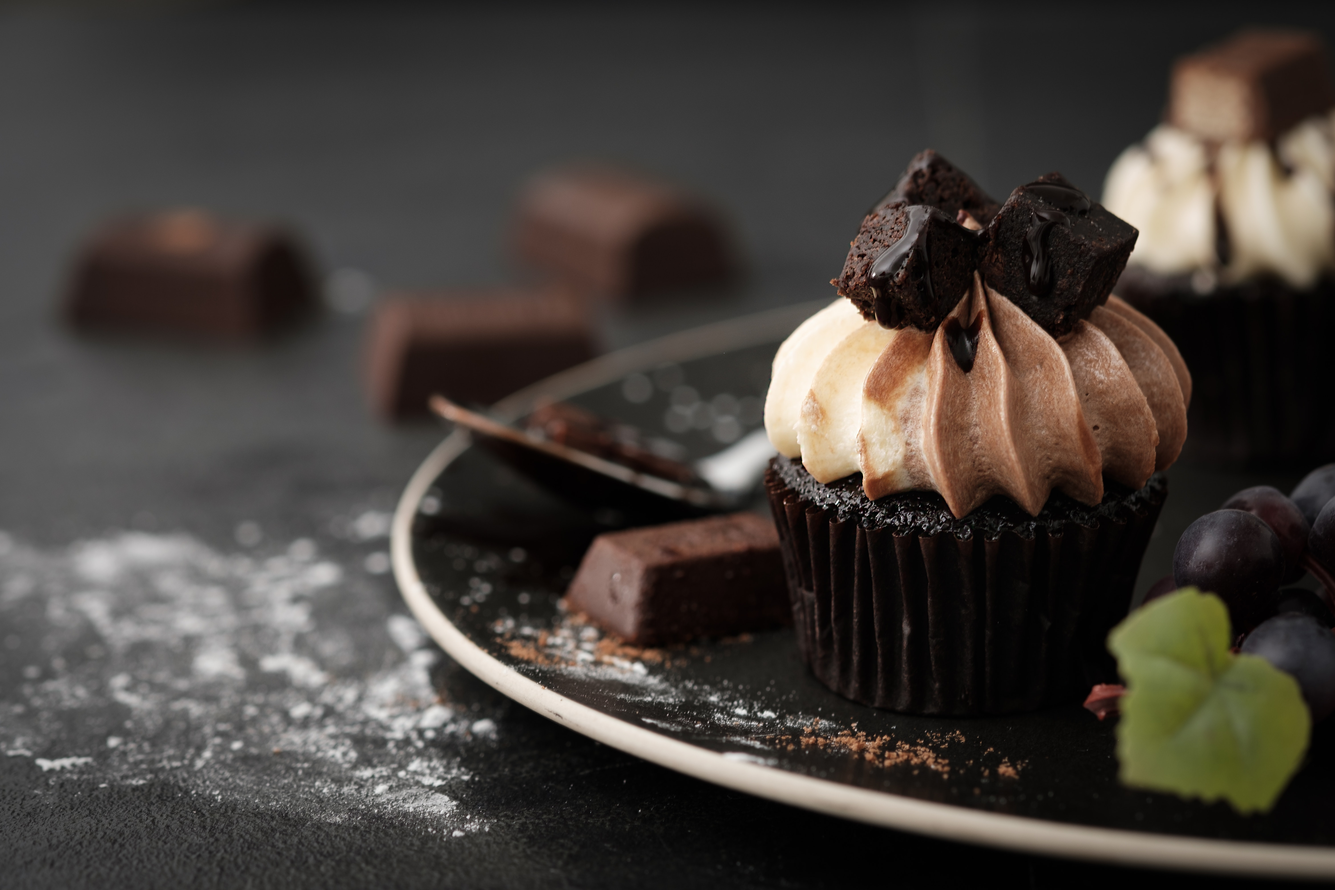
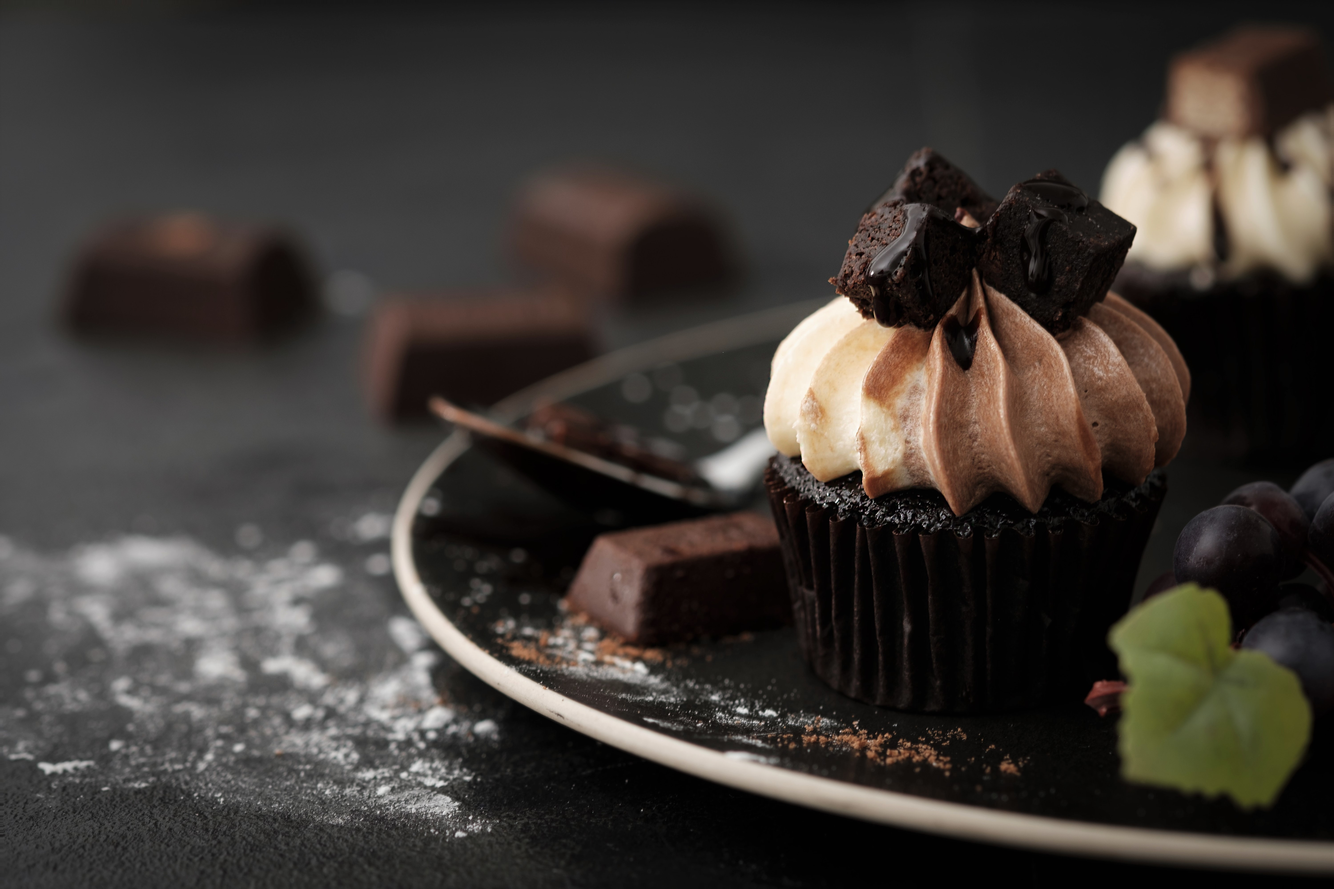
changed hover effects and bg image

diff --git a/src/components/Nav/Nav.js b/src/components/Nav/Nav.js
@@ -1,4 +1,4 @@
-import "./Nav.css";
+import classes from  "./Nav.module.css";
 import Logo from "../ui/Logo";
 import NavItem from "./NavItem/NavItem";
 import React from "react";
@@ -9,21 +9,21 @@ import User from "../../assets/userIcon.svg";
 
 function Nav() {
   return (
-    <nav className="Nav">
-      <div className="container">
+    <nav className={classes.Nav}>
+      <div className={classes.container}>
         <ul>
           <NavItem url="/shop">Shop</NavItem>
           <NavItem url="/specialdays">Special days</NavItem>
           <NavItem url="/delivery">Delivery</NavItem>
           <NavItem url="/location">Location</NavItem>
         </ul>
-        <NavLink to="/" className="Logo"><Logo /></NavLink>
+        <NavLink to="/"><Logo /></NavLink>
         <ul>
           <NavItem url="/about">About</NavItem>
           <NavItem url="/account">Contacts</NavItem>
-          <NavLink to="/search" className="icons"><img src={Search} className="searchIcon" alt="Search" /></NavLink>
-          <NavLink to="/user" className="icons"><img src={User} className="userIcon" alt="Account" /></NavLink>
-          <NavLink to="/cart" className="icons"><img src={Cart} className="cartIcon" alt="Cart" /></NavLink>
+          <NavLink to="/search" className={classes.icons}><img src={Search} className={classes.searchIcon} alt="Search" /></NavLink>
+          <NavLink to="/user" className={classes.icons}><img src={User} className={classes.userIcon} alt="Account" /></NavLink>
+          <NavLink to="/cart" className={classes.icons}><img src={Cart} className={classes.cartIcon} alt="Cart" /></NavLink>
         </ul>
       </div>
     </nav>

diff --git a/src/components/ProductList/ProductItem/ProductItem.module.css b/src/components/ProductList/ProductItem/ProductItem.module.css
@@ -4,7 +4,6 @@
   object-position: center;
 
   box-shadow: 0 0 10px rgba(0, 0, 0, .3);
-  /* z-index: 2; */
 }
 .ProductItem {
   position: relative;
@@ -29,26 +28,7 @@
   transition-duration: 0.3s;
   transition-property: transform; */
 }
-.ProductItem .price {
-  position: absolute;
-  top: -1.5rem;
-  right: -15px;
-  /* z-index: 3; */
-  
-  background-color: #0b1c2c;
-  color: white;
-  font-size: 1.1rem;
-  padding: 1rem;
-  text-align: center;
-  border-radius: 50%;
-  box-shadow: 0 0 10px rgba(0, 0, 0, .3);
-}
-/* .ProductItem a:hover, a:active, a:focus {
-  font-size: 1.2rem;
-  transform: scale(1.1); 
-} */
-
-a::before {
+.ProductItem a::before {
   content: '';
   position: absolute;
   width: 100%;
@@ -62,7 +42,21 @@ a::before {
   transition: transform .3s ease-in-out;
 }
 
-a:hover::before {
+.ProductItem a:hover::before {
   transform-origin: left;
   transform: scaleX(1);
+}
+
+.ProductItem .price {
+  position: absolute;
+  top: -1.5rem;
+  right: -15px;
+  
+  background-color: #0b1c2c;
+  color: white;
+  font-size: 1.1rem;
+  padding: 1rem;
+  text-align: center;
+  border-radius: 50%;
+  box-shadow: 0 0 10px rgba(0, 0, 0, .3);
 }

diff --git a/src/components/Header/Header.css b/src/components/Header/Header.css
@@ -4,13 +4,12 @@
   display: flex;
   flex-direction: column;
   justify-content: center;
-  /* padding: 1rem 0; */
   background-size: cover;
   color: white;
-  text-shadow: 0 0 20px rgba(255, 255, 255, 0.7);
-}
-.Header img {
-  width: 100%;
+  /* color: #0b1c2c; */
+  text-shadow: 0 0 20px rgba(255, 255, 255, 0.6);
+  position: relative;
+  margin-bottom: 2rem;
 }
 .Container {
   width: 50%;
@@ -21,6 +20,7 @@
   margin: 0;
   text-transform: uppercase;
   font-family: italic;
+  font-size: 2rem;
 }
 .Container p {
   font-family: 'Libre Baskerville', serif;
@@ -29,12 +29,7 @@
 .blur{
   padding: 50px;
   width: 500px;
-  background-color: rgba(255, 255, 255, 0.18);
-}
-
-.Header {
-  position: relative;
-  margin-bottom: 2rem;
+  background-color: rgba(255, 255, 255, 0.123);
 }
 
 .Header img {
@@ -56,7 +51,4 @@
   padding: 0 2rem 0;
   border-radius: 2rem;
   font-size: 1.2rem;
-}
-.Header h1 {
-  font-size: 2rem;
 }

diff --git a/src/components/Nav/NavItem/NavItem.module.css b/src/components/Nav/NavItem/NavItem.module.css
@@ -1,0 +1,43 @@
+.NavItem a {
+  display: block;
+  padding: 1rem;
+  color: #0b1c2c;
+  font-size: 1rem;
+  font-family: "Nunito Sans", sans-serif;
+  font-weight: 600;
+  letter-spacing: 0.1rem;
+  text-decoration: none;
+  /* background-image: linear-gradient(
+    to right,
+    #54b3d6,
+    #54b3d6 50%,
+    #ffffff 50%
+  );
+  background-size: 200% 100%;
+  background-position: -100%; */
+  display: inline-block;
+  position: relative;
+  transition: all 0.1s ease-in-out;
+}
+.NavItem a:hover {
+  color: #2f7fca;
+}
+.NavItem a::after {
+  content: "";
+  position: absolute;
+  bottom: 12px;
+  left: 0;
+  width: 100%;
+  height: 1px;
+  background-color: #0b1c2c;
+  transform: scaleX(0);
+  transform-origin: bottom left;
+
+  transition: transform 0.3s;
+}
+.NavItem a:hover::after {
+  transform: scaleX(1);
+}
+.NavItem a.active {
+  border-color: #0b1c2c;
+} 

diff --git a/public/index.html b/public/index.html
@@ -5,7 +5,7 @@
     <link rel="icon" href="%PUBLIC_URL%/favicon.ico" />
     <link rel="preconnect" href="https://fonts.googleapis.com">
     <link rel="preconnect" href="https://fonts.gstatic.com" crossorigin>
-    <link href="https://fonts.googleapis.com/css2?family=GFS+Didot&family=Libre+Baskerville&family=Nunito+Sans:wght@400;600&family=Pacifico&family=Poppins&family=Roboto:wght@400;500;700;900&display=swap" rel="stylesheet">
+    <link href="https://fonts.googleapis.com/css2?family=GFS+Didot&family=Libre+Baskerville&family=Libre+Bodoni&family=Nunito+Sans:wght@400;600&family=Pacifico&family=Poppins&family=Roboto+Slab&family=Roboto:wght@400;500;700;900&display=swap" rel="stylesheet">
     <meta name="viewport" content="width=device-width, initial-scale=1" />
     <meta name="theme-color" content="#000000" />
     <meta

diff --git a/src/components/Nav/Nav.module.css b/src/components/Nav/Nav.module.css
@@ -1,0 +1,47 @@
+.Nav {
+  background-color: #ffffff;
+  padding: 0 1.5rem;
+
+  /* position: sticky;
+  top: 0;
+  left: 0;
+  right: 0; */
+}
+.Nav .container {
+  display: flex;
+  align-items: center;
+  justify-content: space-between;
+}
+.Nav ul {
+  list-style: none;
+  padding: 0;
+  margin: 0;
+  display: flex;
+}
+.NavLink .Logo {
+  font-size: 1.6rem;
+  font-family: 'Roboto Slab', serif;
+  letter-spacing: .2em;
+  color: #0b1c2c;
+  padding: 0;
+  margin: 0;
+  text-decoration: none;
+}
+.Nav .icons {
+  display: flex;
+  justify-content: center;
+  align-items: center;
+  color: #0b1c2c;
+}
+.Nav .searchIcon {
+  width: 15px;
+  padding: .9rem;
+}
+.Nav .cartIcon {
+  width: 14px;
+  padding: .9rem;
+}
+.Nav .userIcon {
+  width: 14px;
+  padding: .9rem;
+}

diff --git a/src/components/Nav/NavItem/NavItem.js b/src/components/Nav/NavItem/NavItem.js
@@ -1,10 +1,10 @@
 import { NavLink } from "react-router-dom";
-import "./NavItem.css";
+import  classes from "./NavItem.module.css";
 import React from "react";
 
 function NavItem(props) {
   return (
-    <li className="NavItem">
+    <li className={classes.NavItem}>
       <NavLink to={props.url} active={props.active}>
         {props.children}
       </NavLink>

diff --git a/src/pages/Home.js b/src/pages/Home.js
@@ -1,6 +1,6 @@
 import React from "react";
 import Header from "../components/Header/Header";
-import headerImage from "../assets/header-img1.jpg";
+import headerImage from "../assets/header-img3.jpg";
 // import "./style.css";
 
 function Home() {

diff --git a/src/components/ui/Logo.js b/src/components/ui/Logo.js
@@ -1,9 +1,10 @@
 import React from "react";
-import "./Logo.css";
+import classes from "./Logo.module.css"
+
 
 function Logo() {
   return (
-    <div className="Logo">
+    <div className={classes.Logo}>
       Bakery Paradise
     </div>
   );

diff --git a/src/components/ui/Logo.module.css b/src/components/ui/Logo.module.css
@@ -1,0 +1,9 @@
+.Logo {
+  font-size: 1.6rem;
+  font-family: 'Roboto Slab', serif;
+  letter-spacing: .2em;
+  color: #0b1c2c;
+  padding: 0;
+  margin: 0;
+  text-decoration: none;
+}

diff --git a/src/index.css b/src/index.css
@@ -13,7 +13,6 @@ code {
 }
 
 .container {
-  max-width: 1200px;
-  margin: 0 auto;
-  padding: 0 1rem;
+  max-width: 100vw;
+  /* padding: 0 1rem; */
 }

diff --git a/src/components/ProductList/ProductList.module.css b/src/components/ProductList/ProductList.module.css
@@ -2,4 +2,5 @@
   display: flex;
   justify-content: space-between;
   flex-wrap: wrap;
+  padding: 0 6rem;
 }
